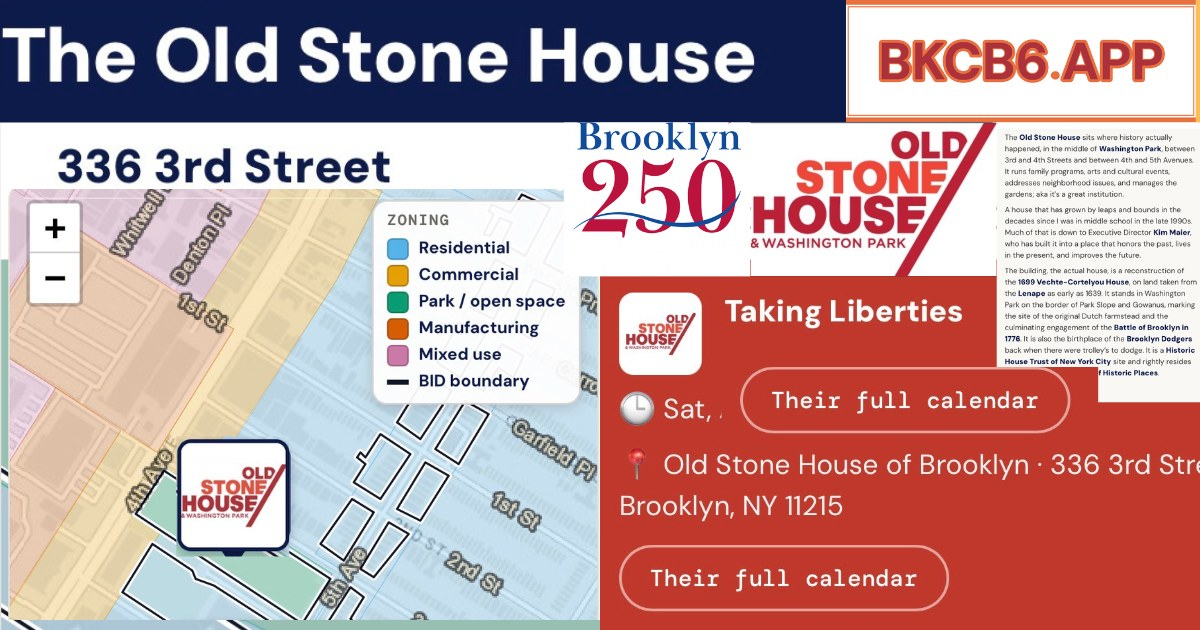
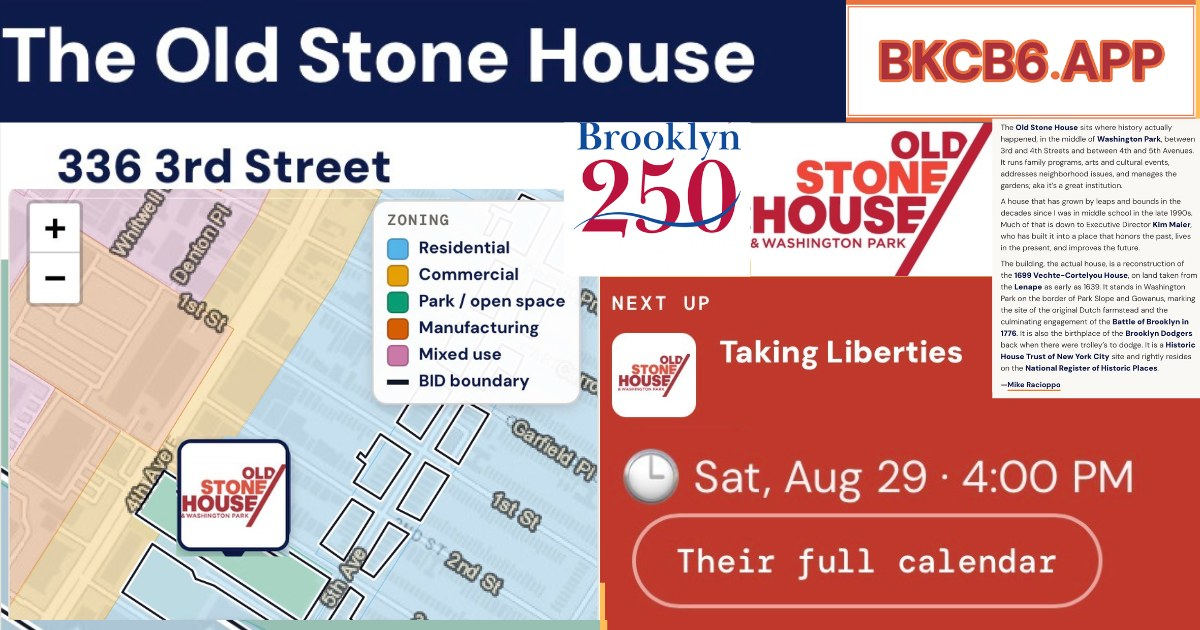
Old Stone House: updated share card
Bump cache to cb6-v1098

Changed region(s): [[0.4933, 0.181, 1.0, 1.0], [0.925, 0.6333, 1.0, 0.6635]]

diff --git a/oldstonehouse/index.html b/oldstonehouse/index.html
@@ -7,8 +7,8 @@
 <meta property="og:title" content="The Old Stone House and Washington Park">
 <meta property="og:description" content="The Old Stone House and Washington Park at 336 3rd Street in Brooklyn. What it does, how to visit, the history of the site, and the lot it stands on.">
 <meta property="og:url" content="https://bkcb6.app/oldstonehouse">
-<meta property="og:image" content="https://bkcb6.app/og-oldstonehouse.jpg?v=2"><meta property="og:image:secure_url" content="https://bkcb6.app/og-oldstonehouse.jpg?v=2"><meta property="og:image:type" content="image/jpeg"><meta property="og:image:width" content="1200"><meta property="og:image:height" content="630"><meta property="og:image:alt" content="The Old Stone House and Washington Park on bkcb6.app">
-<meta name="twitter:card" content="summary_large_image"><meta name="twitter:image" content="https://bkcb6.app/og-oldstonehouse.jpg?v=2">
+<meta property="og:image" content="https://bkcb6.app/og-oldstonehouse.jpg?v=3"><meta property="og:image:secure_url" content="https://bkcb6.app/og-oldstonehouse.jpg?v=3"><meta property="og:image:type" content="image/jpeg"><meta property="og:image:width" content="1200"><meta property="og:image:height" content="630"><meta property="og:image:alt" content="The Old Stone House and Washington Park on bkcb6.app">
+<meta name="twitter:card" content="summary_large_image"><meta name="twitter:image" content="https://bkcb6.app/og-oldstonehouse.jpg?v=3">
 <link rel="preconnect" href="https://fonts.googleapis.com"><link rel="preconnect" href="https://fonts.gstatic.com" crossorigin>
 <link href="https://fonts.googleapis.com/css2?family=DM+Mono:wght@400;500&family=DM+Sans:wght@400;500;700;900&display=swap" rel="stylesheet">
 <link rel="stylesheet" href="https://unpkg.com/leaflet@1.9.4/dist/leaflet.css"/>

diff --git a/sw.js b/sw.js
@@ -1,5 +1,5 @@
 // CB6 & Beyond — Service Worker
-const CACHE_VERSION = 'cb6-v1097';
+const CACHE_VERSION = 'cb6-v1098';
 const CORE_ASSETS = [
   '/',
   '/index.html',
